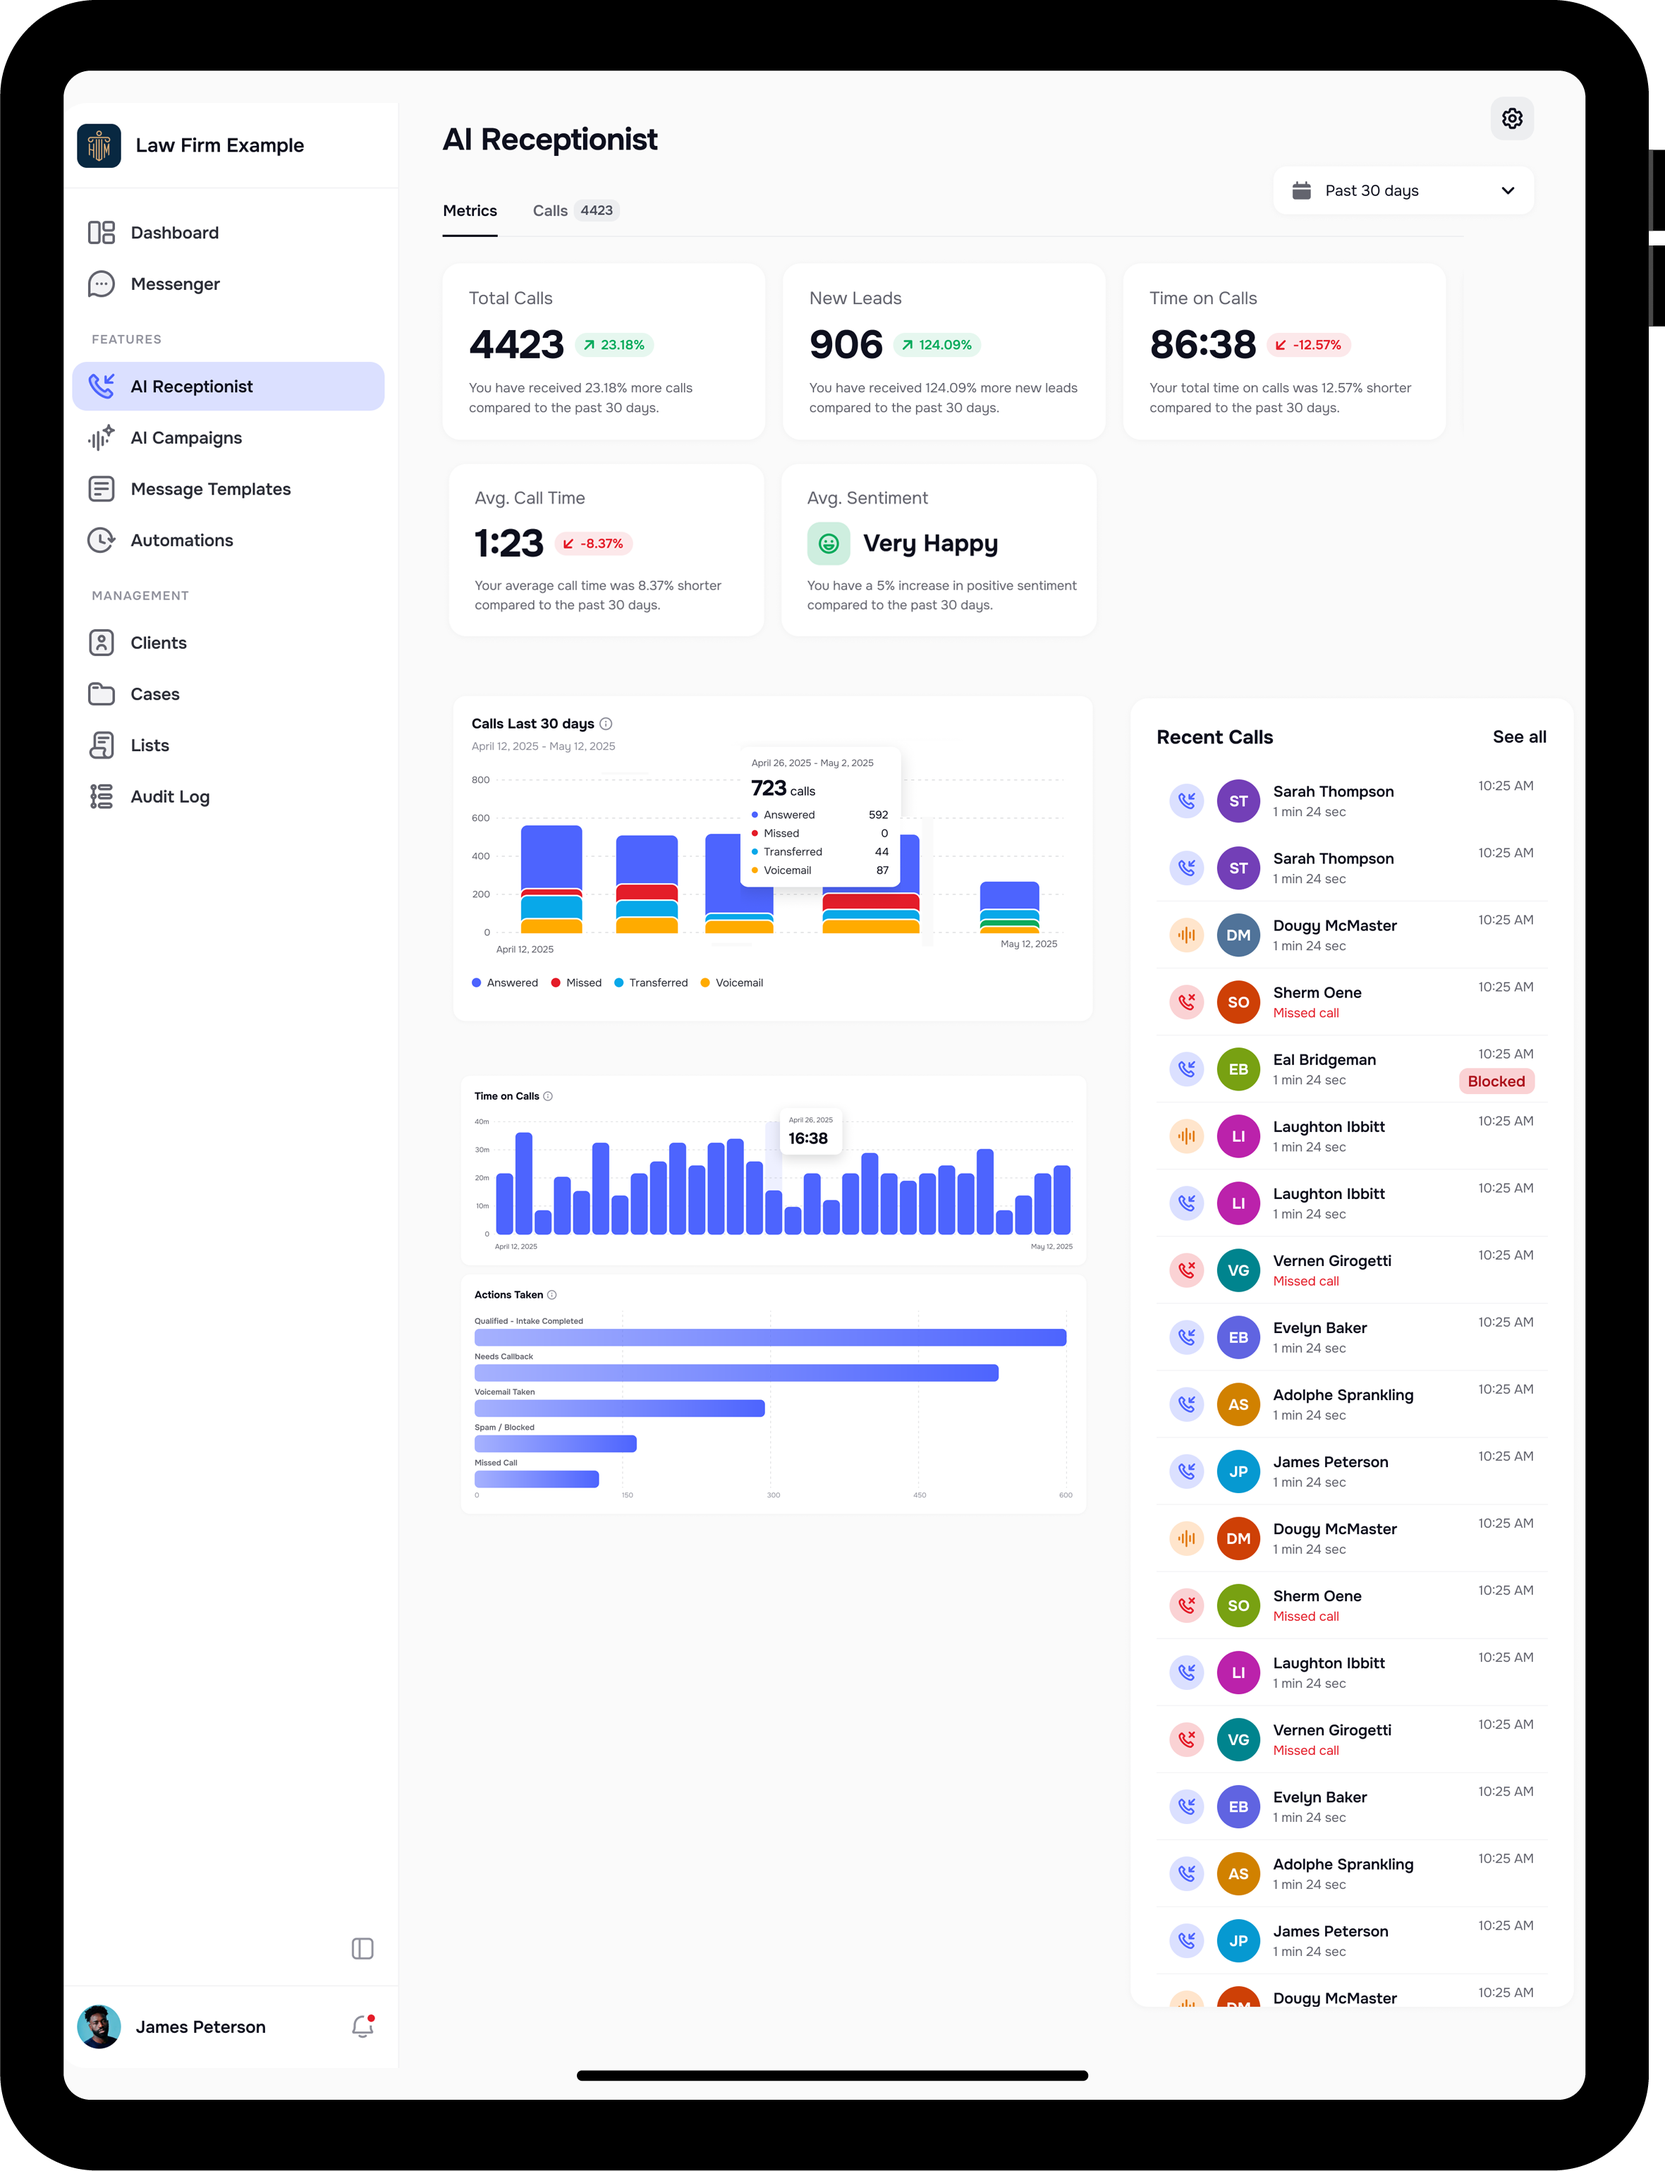
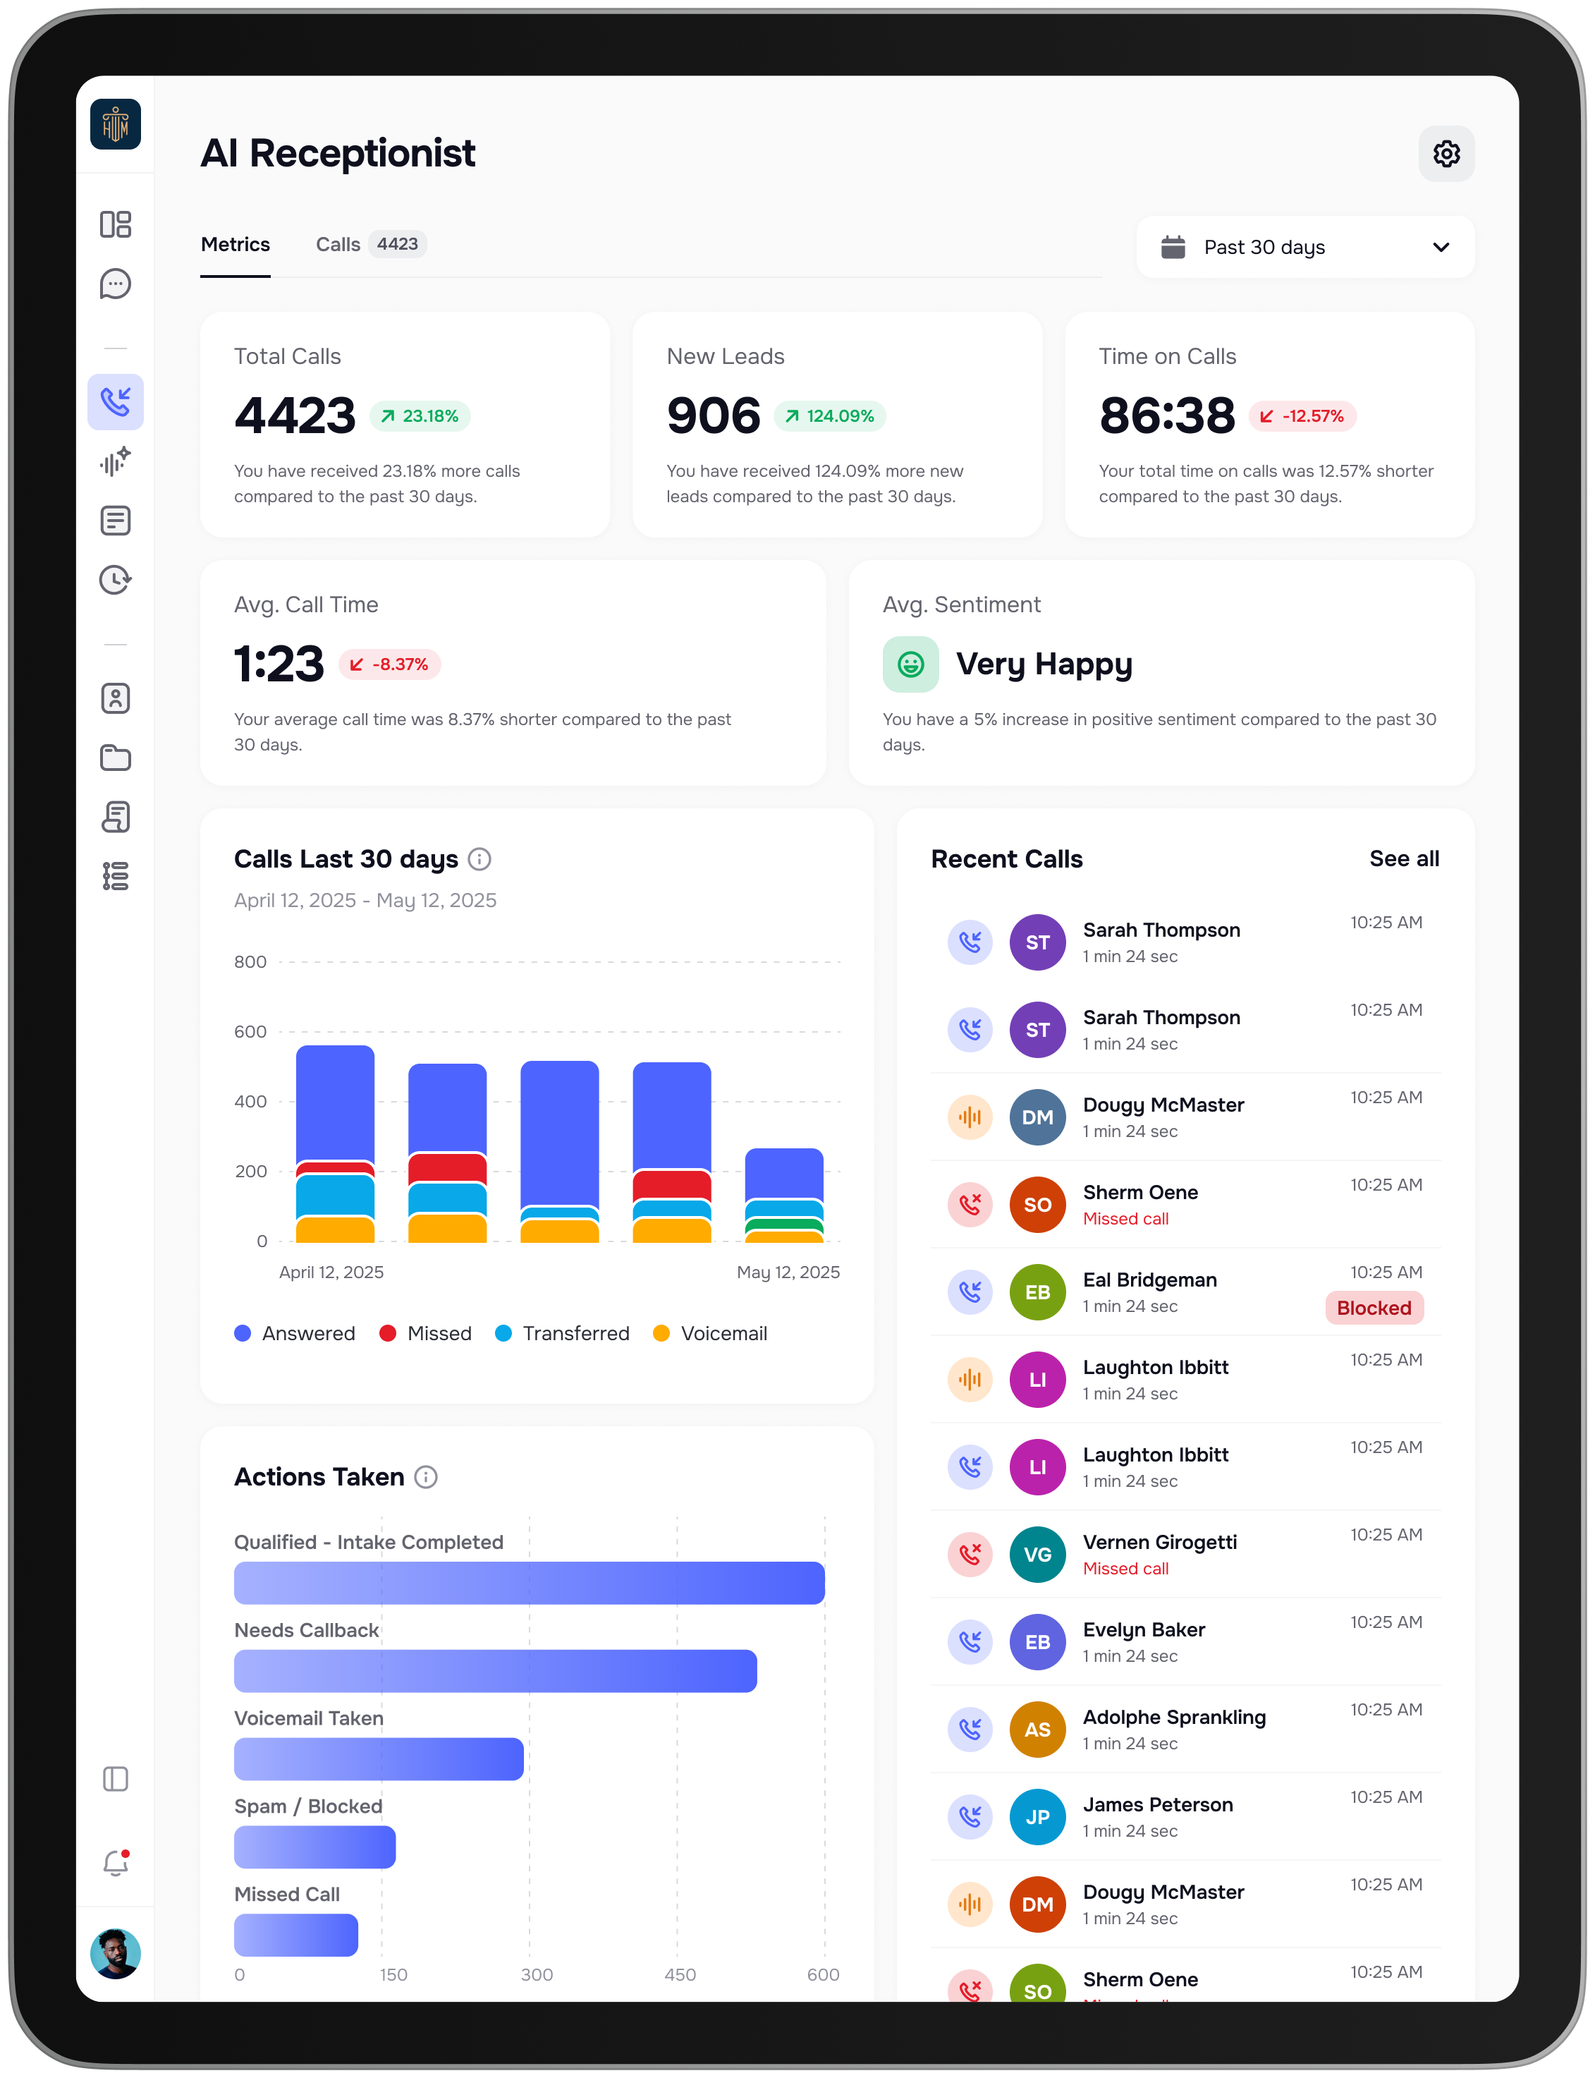
new ipad images

diff --git a/src/pages/Integrations.tsx b/src/pages/Integrations.tsx
@@ -274,10 +274,12 @@ const Integrations: React.FC = () => {
                     CRM Integration
                   </span>
                 </div>
+
                 <h2 className="text-3xl md:text-4xl lg:text-5xl font-semibold mb-6 tracking-[-0.03em] leading-[1.1]">
                   <span className="text-white">Enhancing Your CRM with</span>
+                  <br />
                   <span
-                    className="bg-gradient-to-r from-white via-[#3e9dff] via-[#3e9dff] to-white bg-clip-text text-transparent pl-2"
+                    className="bg-gradient-to-r from-white via-[#3e9dff] via-[#3e9dff] to-white bg-clip-text text-transparent"
                     style={{
                       backgroundSize: "200% 100%",
                       backgroundPosition: "60% 0",
@@ -415,8 +417,9 @@ const Integrations: React.FC = () => {
                   <span className="text-white">
                     Seamless Connection to Your
                   </span>
+                  <br />
                   <span
-                    className="bg-gradient-to-r from-white via-[#3e9dff] via-[#3e9dff] to-white bg-clip-text text-transparent pl-2"
+                    className="bg-gradient-to-r from-white via-[#3e9dff] via-[#3e9dff] to-white bg-clip-text text-transparent"
                     style={{
                       backgroundSize: "200% 100%",
                       backgroundPosition: "60% 0",
@@ -523,8 +526,9 @@ const Integrations: React.FC = () => {
                 </div>
                 <h2 className="text-3xl md:text-4xl lg:text-5xl font-semibold mb-6 tracking-[-0.03em] leading-[1.1]">
                   <span className="text-white">Enhancing Your Current</span>
+                  <br />
                   <span
-                    className="bg-gradient-to-r from-white via-[#3e9dff] via-[#3e9dff] to-white bg-clip-text text-transparent pl-2"
+                    className="bg-gradient-to-r from-white via-[#3e9dff] via-[#3e9dff] to-white bg-clip-text text-transparent"
                     style={{
                       backgroundSize: "200% 100%",
                       backgroundPosition: "60% 0",

diff --git a/src/pages/Solutions.tsx b/src/pages/Solutions.tsx
@@ -291,7 +291,7 @@ const Solutions: React.FC = () => {
               >
                 <div className="absolute inset-0 bg-gradient-to-r from-accent/20 via-transparent to-transparent rounded-3xl blur-2xl group-hover:from-accent/30 transition-all duration-500"></div>
                 <img
-                  src="/ipad1.png"
+                  src="/ipad3.png"
                   alt="Sentiment Analysis Dashboard"
                   className="relative w-full h-auto rounded-3xl shadow-2xl transform group-hover:scale-[1.02] transition-all duration-500"
                 />
@@ -527,9 +527,9 @@ const Solutions: React.FC = () => {
               >
                 <div className="absolute inset-0 bg-gradient-to-r from-accent/20 via-transparent to-transparent rounded-3xl blur-3xl scale-95 opacity-50 group-hover:from-accent/30 group-hover:scale-100 group-hover:opacity-60 transition-all duration-500"></div>
                 <img
-                  src="/phone-2.png"
+                  src="/phone1.png"
                   alt="Client Portal App"
-                  className="relative w-full h-auto rounded-3xl transform group-hover:scale-[1.02] transition-all duration-500"
+                  className="relative w-full h-auto max-h-[600px] object-contain rounded-3xl transform group-hover:scale-[1.02] transition-all duration-500"
                 />
               </motion.div>
             </div>
